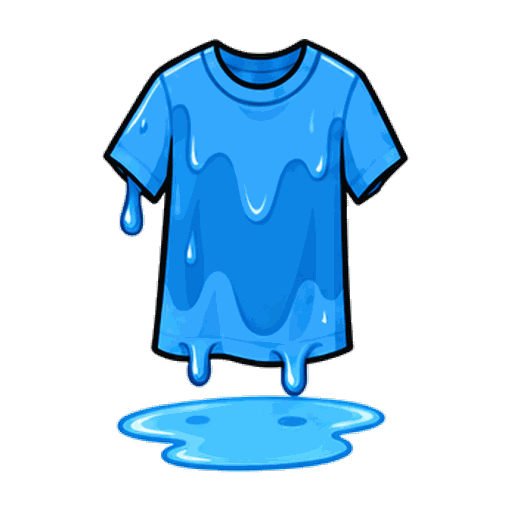
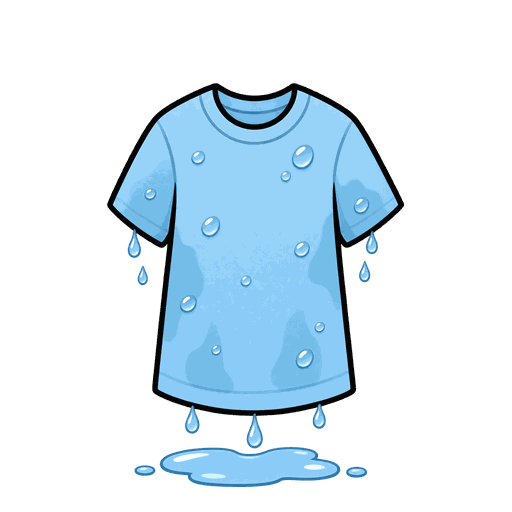
fix: зайчик на главном экране целиком, мокрая футболка без «потёкшей краски»
- Главный экран, «Самостоятельно»: новая картинка menu-covers/self-bunny.png —
  тот же зайчик пиксель в пиксель (строки 0–445 скопированы из
  feed-animal/bunny.png), снизу дорисованы срезанные лапки. Картинка в игре
  «Покорми зверька» не менялась.
- «Противоположности», «мокрый»: футболка перерисована — вода отдельными
  каплями и лужицей, без потёков, похожих на краску. Размер и положение
  футболки как у «сухой».

Claude-Session: https://claude.ai/code/session_018eBANZ4ChyYRv3xgUpRZcP

diff --git a/src/frontend/data/menuCovers.ts b/src/frontend/data/menuCovers.ts
@@ -306,7 +306,8 @@ export const categoryMenuCovers = {
 
 export const modeMenuCovers = {
   specialist: image("wake-owl/owl-awake.png"),
-  self: image("feed-animal/bunny.png"),
+  // Same bunny as «Покорми зверька», with the cut-off paws drawn in (owner, 2026-11-13).
+  self: image("menu-covers/self-bunny.png"),
 } satisfies Record<NonNullable<MenuCoverOptions["mode"]>, MenuCover>;
 
 const unknownMenuCover = image("words/book.png");
